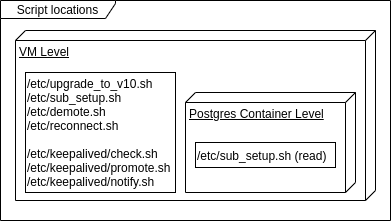
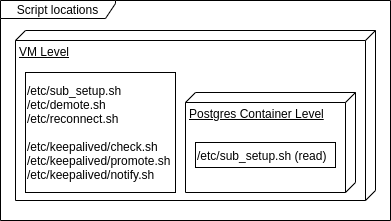
update configuration

Changed region(s): [[0.0614, 0.6244, 0.4604, 0.8416], [0.0614, 0.3529, 0.399, 0.5973]]

diff --git a/cluster/README.md b/cluster/README.md
@@ -10,17 +10,18 @@ How to use:
 - Phase 2: After you pressed `enter` to continue, the other subscriber will be upgraded.
 - Phase 3: After you pressed `enter` to continue, the provider will be upgraded and the rolling upgrade comes to an end.
 
-Following the configuration and how to adjust it:
+Following the configuration | how to adjust it:
 - old version is 9.5.18 | TODO
 - new version is 10.13 | TODO
-- there are three hosts | TODO
+- there are at maximum three hosts | TODO
 - hostnames | TODO
-- hosts are reachable via ssh on port 22 | TODO
+- hosts root users are reachable via ssh on port 22 | TODO
+- ssh authenticates to hosts via ssh keys in the `keys` folder | TODO
 - The swarm manager node is reachable via ssh on port 22 | TODO
 - The script is only tested in linux | TODO
 - hosts IPs | Adjustable in the .env file
-- old version stack is deployed with the name `pg95` and the postgres service is called `db` and the network is called `` | TODO
-- new version stack is deployed with the name `pg10` and the postgres service is called `db` and the network is called `pgnet` | TODO
+- old version stack is deployed with the name `pg95` and the postgres service is called `db` and the network is called `pgnet` | Change any occurence of the mentioned values in the code and stack file to the wanted text.
+- new version stack is deployed with the name `pg10` and the postgres service is called `db` and the network is called `pgnet` | Change any occurence of the mentioned values in the code and stack file to the wanted text.
 - Postgres Images need to have pglogical2 installed | No way around that without massive changes
 - There is only one provider per Cluster | TODO
 - There are 0 or more subscriber per Cluster | TODO
@@ -28,8 +29,7 @@ Following the configuration and how to adjust it:
 - Scripts uses the docker node label `pg_ver` to mark where to run which version | TODO
 - Keepaliveds VIP & interface and `sub_setup.sh:get_ip` must be matched with what is running on the postgres machines! | TODO
 - Tested version does only include anonymous mounts! | TODO
-- The script will expect certain scripts at certain locations, have a look at 'TODO.png'! | TODO
-- (only Setup.sh?) Scripts will expect to be root on the host machines | TODO
+- The script will expect certain scripts from the `postgres` and `keepalived` folders at certain locations on the hosts, have a look at 'script_location.png'! | TODO
 - (Setup.sh) Must match existing virtualbox instance names | TODO
 
 ## Setup, Testing, Developing
